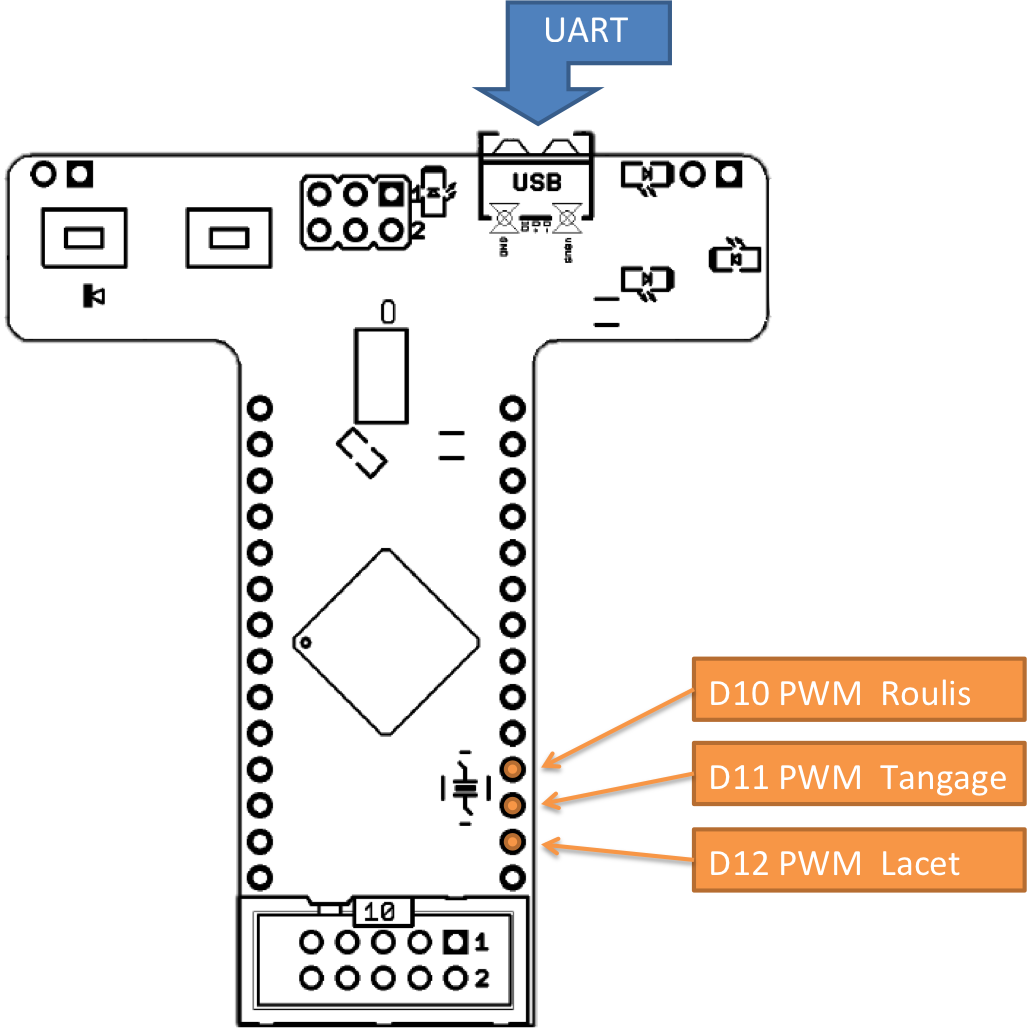
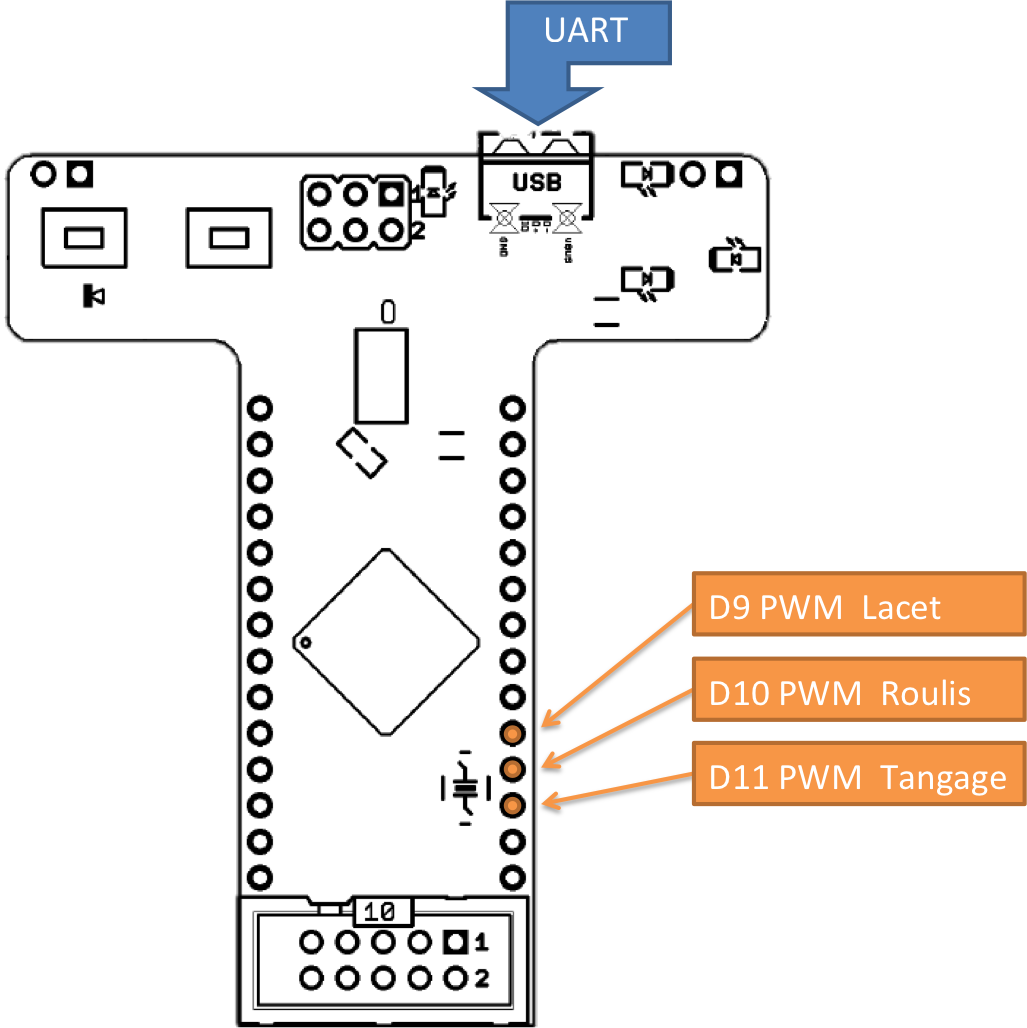
Update README

diff --git a/README.md b/README.md
@@ -66,7 +66,7 @@ Afin de mieux visualiser les flux d'informations circulant au sein de la Raspber
 Pour configurer le microcontrôleur *AVR-T32U4*, il est nécessaire de télécharger l'[IDE Arduino](https://www.arduino.cc/en/Main/Software). Il ne vous restera plus qu'à flasher la carte avec l'un des codes *.ino* disponiblent dans le dossier `Arduino/config` (en choissisant le type de board : *Arduino Leonardo*).
 Deux codes vous sont proposés :
 * `ArduinoPWM.ino` utilisant la blibliothèque *Servo* d'Arduino pour générer la PWM de commande des servomoteurs ;
-* `MyOwnPWM.ino` exploitant les capacités hardwares du microcontrôleur pour générer les PWM.
+* `MyOwnPWM.ino` exploitant les capacités hardwares du microcontrôleur pour générer les PWM. Pour mieux comprendre son fonctionnement, vous pouvez consulter [ce lien](http://r6500.blogspot.ca/2014/12/fast-pwm-on-arduino-leonardo.html) et/ou étudier le code `PWM.ino` dans le dossier `Arduino` qui permet de générer des signaux PWM sur les pins D9, D10, D11 du microcontrôleur.
 
 Par défaut, ces codes permettent de commander les servomoteurs via une communication unidirectionnelle série UART vers le port série `Serial0` du microcontrôleur à la vitesse de *9600 baud*.
 
